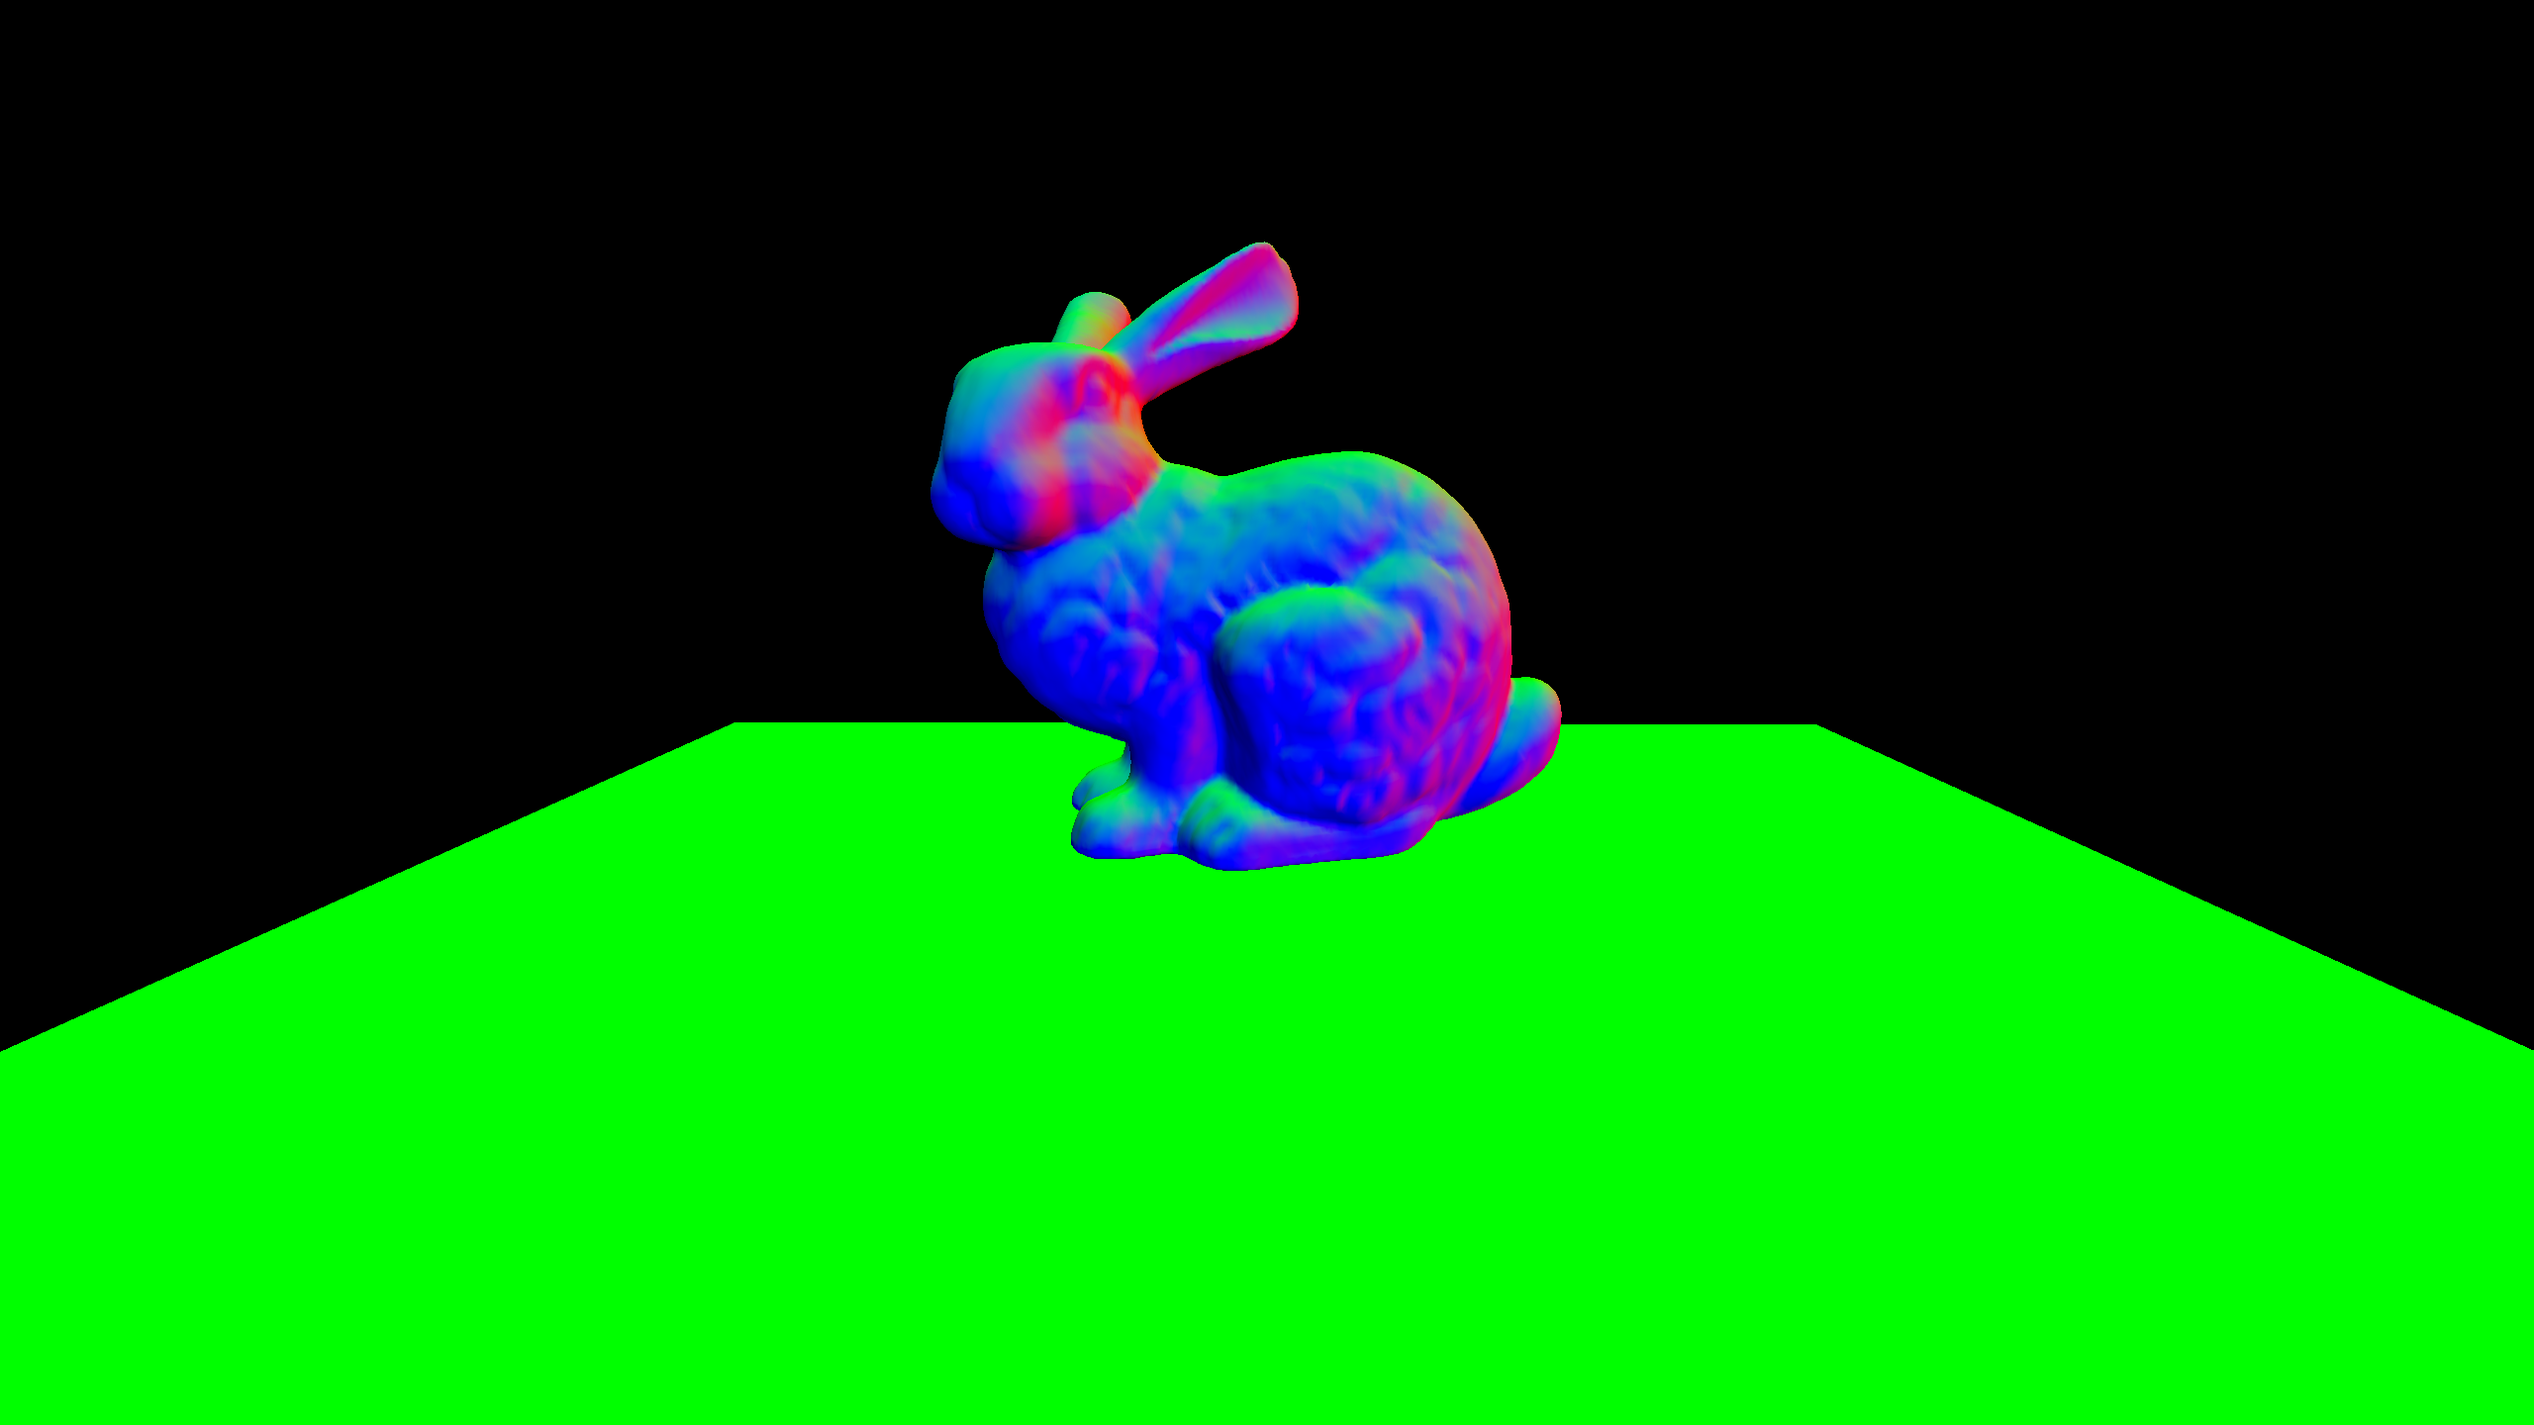
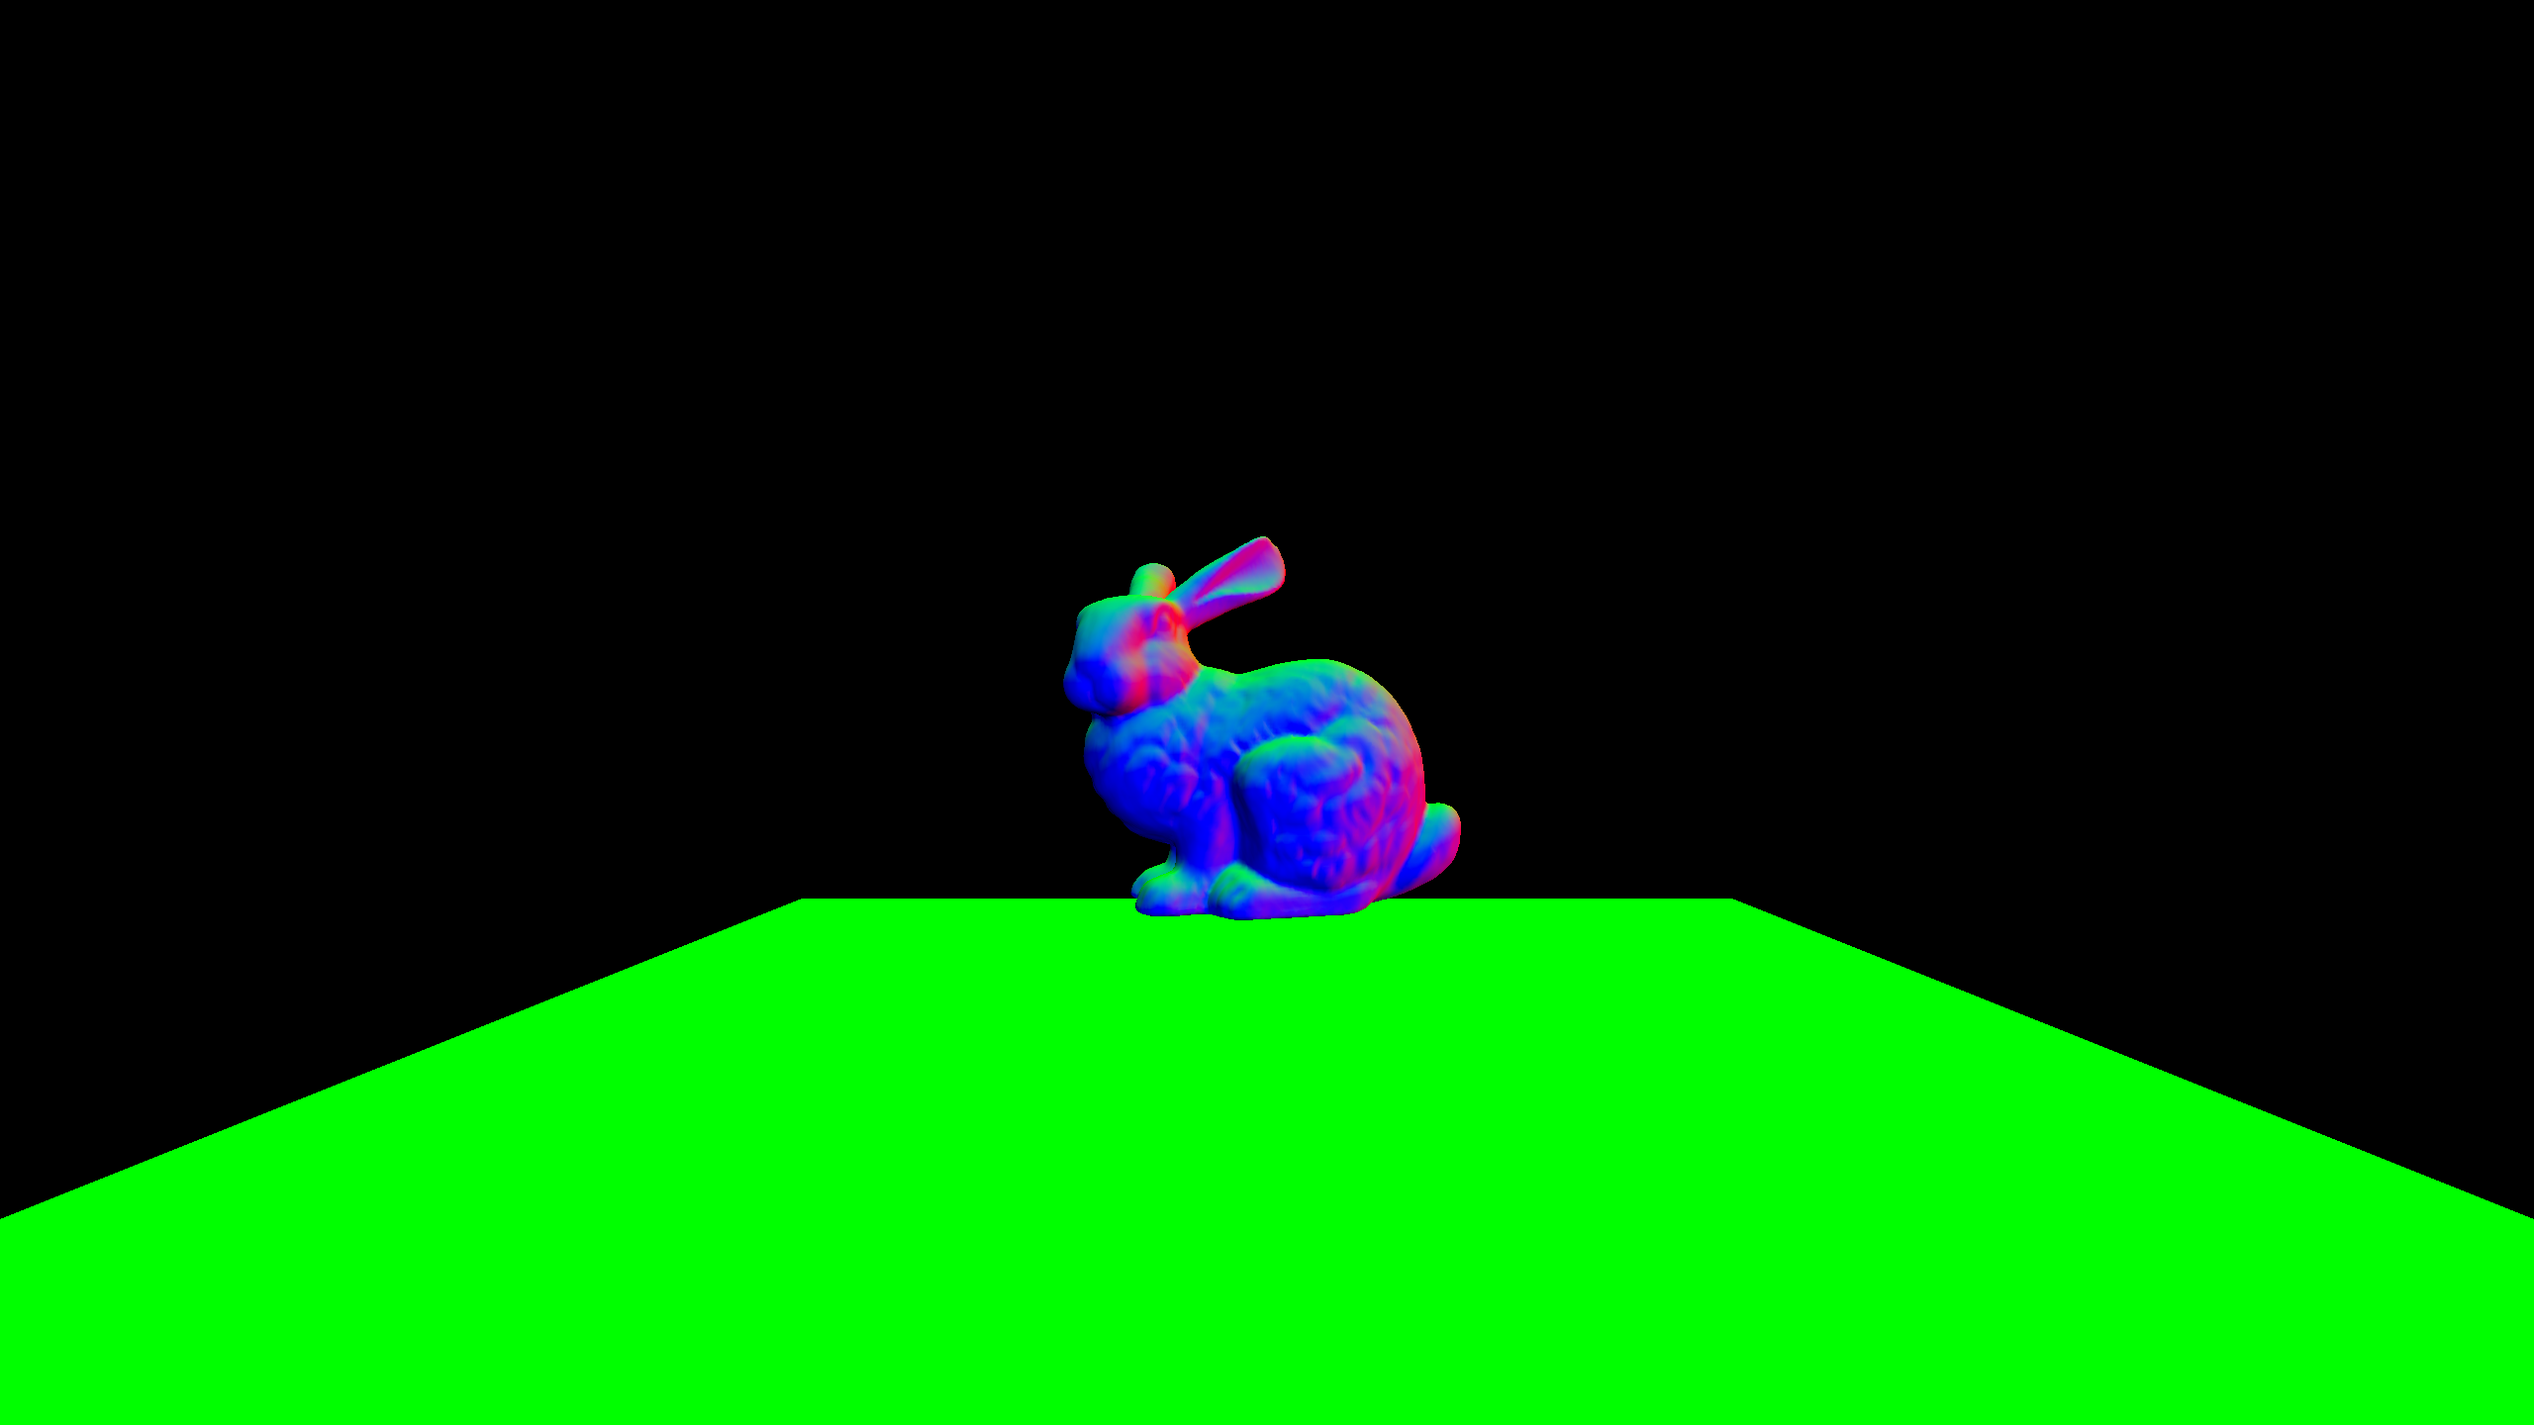
Initial ambient occlusion pass.

Changed region(s): [[0.0, 0.1562, 1.0, 0.875]]

diff --git a/src/scenes/cs562/project4/project4.cpp b/src/scenes/cs562/project4/project4.cpp
@@ -23,8 +23,11 @@ namespace Sandbox {
                                                environmentMap_("environment"),
                                                irradianceMap_("irradiance"),
                                                exposure_(3.0f),
-                                               contrast_(2.0f)
-    {
+                                               contrast_(2.0f),
+                                               ambientOcclusionRadius_(1.0f),
+                                               ambientOcclusionScale_(1.0f),
+                                               ambientOcclusionContrast_(1.0f)
+                                               {
     }
 
     SceneCS562Project4::~SceneCS562Project4() {
@@ -87,6 +90,8 @@ namespace Sandbox {
 
         Backend::Core::DisableFlag(GL_DEPTH_TEST);
 
+        AmbientOcclusionPass();
+
         // 2. Global lighting pass.
         GlobalLightingPass();
 
@@ -99,7 +104,7 @@ namespace Sandbox {
         Backend::Core::EnableFlag(GL_CULL_FACE);
         Backend::Core::CullFace(GL_FRONT);
 
-        LocalLightingPass();
+        // LocalLightingPass();
 
         Backend::Core::DisableFlag(GL_CULL_FACE);
         Backend::Core::DisableFlag(GL_BLEND);
@@ -185,6 +190,19 @@ namespace Sandbox {
                 ImGui::Image(reinterpret_cast<ImTextureID>(fbo_.GetNamedRenderTarget("specular")->ID()), imageSize, ImVec2(0, 1), ImVec2(1, 0));
                 ImGui::Separator();
 
+                ImGui::Text("Ambient Occlusion Radius:");
+                ImGui::SliderFloat("##aoRadius", &ambientOcclusionRadius_, 0.0f, 5.0f);
+
+                ImGui::Text("Ambient Occlusion Scaling Factor:");
+                ImGui::SliderFloat("##aoScale", &ambientOcclusionScale_, 0.0f, 5.0f);
+
+                ImGui::Text("Ambient Occlusion Contrast:");
+                ImGui::SliderFloat("##aoContrast", &ambientOcclusionContrast_, 0.0f, 5.0f);
+
+                ImGui::Text("Ambient Occlusion:");
+                ImGui::Image(reinterpret_cast<ImTextureID>(fbo_.GetNamedRenderTarget("ambient occlusion")->ID()), imageSize, ImVec2(0, 1), ImVec2(1, 0));
+                ImGui::Separator();
+
                 ImGui::Text("Scene depth:");
                 ImGui::Image(reinterpret_cast<ImTextureID>(fbo_.GetNamedRenderTarget("depth")->ID()), imageSize, ImVec2(0, 1), ImVec2(1, 0));
                 ImGui::Separator();
@@ -263,6 +281,8 @@ namespace Sandbox {
         shaderLibrary.CreateShader("Blur Vertical", { "assets/shaders/blur_vertical.comp" });
 
         shaderLibrary.CreateShader("Skydome", { "assets/shaders/skydome.vert", "assets/shaders/skydome.frag" });
+
+        shaderLibrary.CreateShader("Ambient Occlusion Pass", { "assets/shaders/ao.vert", "assets/shaders/ao.frag" });
     }
 
     void SceneCS562Project4::InitializeMaterials() {
@@ -291,7 +311,7 @@ namespace Sandbox {
             });
             ecs.AddComponent<MaterialCollection>(bunny).Configure([this](MaterialCollection& materialCollection) {
                 Material* phong = materialLibrary_.GetMaterialInstance("Phong");
-                phong->GetUniform("ambientCoefficient")->SetData(glm::vec3(0.05f));
+                phong->GetUniform("ambientCoefficient")->SetData(glm::vec3(0.4f));
                 phong->GetUniform("diffuseCoefficient")->SetData(glm::vec3(1.0f));
                 phong->GetUniform("specularCoefficient")->SetData(glm::vec3(1.0f));
                 phong->GetUniform("specularExponent")->SetData(50.0f);
@@ -437,6 +457,13 @@ namespace Sandbox {
         specularTexture->Unbind();
         fbo_.AttachRenderTarget(specularTexture);
 
+        // Ambient occlusion.
+        Texture* ambientOcclusionTexture = new Texture("ambient occlusion");
+        ambientOcclusionTexture->Bind();
+        ambientOcclusionTexture->ReserveData(Texture::AttachmentType::COLOR, contentWidth, contentHeight);
+        ambientOcclusionTexture->Unbind();
+        fbo_.AttachRenderTarget(ambientOcclusionTexture);
+
         // Depth texture (for visualizing depth information).
         Texture* depthTexture = new Texture("depth");
         depthTexture->Bind();
@@ -530,7 +557,7 @@ namespace Sandbox {
     }
 
     void SceneCS562Project4::GeometryPass() {
-        fbo_.DrawBuffers(0, 5);
+        fbo_.DrawBuffers(0, 6);
         Backend::Core::ClearColor(0.0f, 0.0f, 0.0f, 1.0f);
         Backend::Core::ClearFlag(GL_COLOR_BUFFER_BIT | GL_DEPTH_BUFFER_BIT); // Clear everything for a new scene.
 
@@ -567,7 +594,7 @@ namespace Sandbox {
 
         // Render scene depth.
         {
-            fbo_.DrawBuffers(5, 1);
+            fbo_.DrawBuffers(6, 1);
             Backend::Core::ClearColor(0.0f, 0.0f, 0.0f, 1.0f);
             Backend::Core::ClearFlag(GL_COLOR_BUFFER_BIT); // Clear everything for a new scene.
 
@@ -585,7 +612,7 @@ namespace Sandbox {
 
     void SceneCS562Project4::GlobalLightingPass() {
         // Render to 'output' texture.
-        fbo_.DrawBuffers(6, 1);
+        fbo_.DrawBuffers(7, 1);
 
         Backend::Core::ClearColor(0.0f, 0.0f, 0.0f, 1.0f);
         Backend::Core::ClearFlag(GL_COLOR_BUFFER_BIT); // We are not touching depth buffer here.
@@ -614,21 +641,22 @@ namespace Sandbox {
         Backend::Rendering::BindTextureWithSampler(globalLightingShader, fbo_.GetNamedRenderTarget("position"), 0);
         Backend::Rendering::BindTextureWithSampler(globalLightingShader, fbo_.GetNamedRenderTarget("normal"), 1);
         Backend::Rendering::BindTextureWithSampler(globalLightingShader, fbo_.GetNamedRenderTarget("ambient"), 2);
-        Backend::Rendering::BindTextureWithSampler(globalLightingShader, fbo_.GetNamedRenderTarget("diffuse"), 3);
-        Backend::Rendering::BindTextureWithSampler(globalLightingShader, fbo_.GetNamedRenderTarget("specular"), 4);
+        Backend::Rendering::BindTextureWithSampler(globalLightingShader, fbo_.GetNamedRenderTarget("ambient occlusion"), "ambientOcclusion", 3);
+        Backend::Rendering::BindTextureWithSampler(globalLightingShader, fbo_.GetNamedRenderTarget("diffuse"), 4);
+        Backend::Rendering::BindTextureWithSampler(globalLightingShader, fbo_.GetNamedRenderTarget("specular"), 5);
 
         // Bind shadow map.
         shadowMap_.BindForRead();
         if (blurKernelRadius_ > 0) {
             // Vertical blurring pass happens after horizontal blurring pass.
-            Backend::Rendering::BindTextureWithSampler(globalLightingShader, shadowMap_.GetNamedRenderTarget("blur vertical"), "shadowMap", 5);
+            Backend::Rendering::BindTextureWithSampler(globalLightingShader, shadowMap_.GetNamedRenderTarget("blur vertical"), "shadowMap", 6);
         }
         else {
-            Backend::Rendering::BindTextureWithSampler(globalLightingShader, shadowMap_.GetNamedRenderTarget("depth"), "shadowMap", 5);
+            Backend::Rendering::BindTextureWithSampler(globalLightingShader, shadowMap_.GetNamedRenderTarget("depth"), "shadowMap", 6);
         }
 
-        Backend::Rendering::BindTextureWithSampler(globalLightingShader, &environmentMap_, "environmentMap", 6);
-        Backend::Rendering::BindTextureWithSampler(globalLightingShader, &irradianceMap_, "irradianceMap", 7);
+        Backend::Rendering::BindTextureWithSampler(globalLightingShader, &environmentMap_, "environmentMap", 7);
+        Backend::Rendering::BindTextureWithSampler(globalLightingShader, &irradianceMap_, "irradianceMap", 8);
 
         // Render to output texture using FSQ.
         Backend::Rendering::DrawFSQ();
@@ -638,7 +666,7 @@ namespace Sandbox {
 
     void SceneCS562Project4::LocalLightingPass() {
         // Render to 'output' texture.
-        fbo_.DrawBuffers(6, 1);
+        fbo_.DrawBuffers(7, 1);
 
         Shader* localLightingShader = ShaderLibrary::Instance().GetShader("Local Lighting BRDF Pass");
         localLightingShader->Bind();
@@ -949,60 +977,6 @@ namespace Sandbox {
         irradianceMap_.ReserveData(irradianceMapName);
     }
 
-//    SceneCS562Project4::HDRImageData SceneCS562Project4::ReadHDRImage(const std::string& filename) const {
-//        rgbe_header_info info;
-//        char buffer[256] = { '\0' };
-//
-//        HDRImageData out { };
-//        FILE* fp = fopen(filename.c_str(), "rb");
-//        if (!fp) {
-//            throw std::runtime_error("Failed to open '" + filename + "' for read.");
-//        }
-//
-//        // Read header.
-//        if (RGBE_ReadHeader(fp, &out.width, &out.height, &info, buffer) != RGBE_RETURN_SUCCESS) {
-//            fclose(fp);
-//            throw std::runtime_error("Failed to read .hdr (HDR) image header (" + filename + ").");
-//        }
-//
-//        // Read data.
-//        out.channels = 3;
-//        out.data.resize(out.width * out.height * out.channels, 0.0f); // Allocate space for image.
-//
-//        if (RGBE_ReadPixels_RLE(fp, out.data.data(), out.width, out.height, buffer) != RGBE_RETURN_SUCCESS) {
-//            fclose(fp);
-//            throw std::runtime_error("Failed to read .hdr (HDR) image data (" + filename + ").");
-//        }
-//
-//        fclose(fp);
-//        return out;
-//    }
-//
-//    void SceneCS562Project4::WriteHDRImage(HDRImageData data, const std::string& filename) const {
-//        rgbe_header_info info;
-//        char buffer[256] = { '\0' };
-//
-//        // Open file.
-//        FILE* fp = fopen(ConvertToNativeSeparators(filename).c_str(), "wb");
-//        if (!fp) {
-//            throw std::runtime_error("Failed to open '" + filename + "' for write.");
-//        }
-//
-//        // Write header.
-//        if (RGBE_WriteHeader(fp, data.width, data.height, nullptr, buffer) != RGBE_RETURN_SUCCESS) {
-//            fclose(fp);
-//            throw std::runtime_error("Failed to write .hdr (HDR) image header (" + filename + ").");
-//        }
-//
-//        // Write data.
-//        if (RGBE_WritePixels_RLE(fp, data.data.data(), data.width, data.height, buffer) != RGBE_RETURN_SUCCESS) {
-//            fclose(fp);
-//            throw std::runtime_error("Failed to read .hdr (HDR) image data (" + filename + ").");
-//        }
-//
-//        fclose(fp);
-//    }
-
     void SceneCS562Project4::GenerateIrradianceMap(std::string filename) const {
         filename = ConvertToNativeSeparators(filename);
         std::string name = GetAssetName(filename);
@@ -1171,7 +1145,7 @@ namespace Sandbox {
     }
 
     void SceneCS562Project4::RenderSkydome() {
-        fbo_.DrawBuffers(6, 1);
+        fbo_.DrawBuffers(7, 1);
 
         // Render four channel depth buffer.
         Shader* skydomeShader = ShaderLibrary::Instance().GetShader("Skydome");
@@ -1195,6 +1169,30 @@ namespace Sandbox {
         });
 
         skydomeShader->Unbind();
+    }
+
+    void SceneCS562Project4::AmbientOcclusionPass() {
+        fbo_.DrawBuffers(5, 1);
+        Backend::Core::ClearFlag(GL_COLOR_BUFFER_BIT);
+
+        // Render four channel depth buffer.
+        Shader* aoShader = ShaderLibrary::Instance().GetShader("Ambient Occlusion Pass");
+        aoShader->Bind();
+
+        aoShader->SetUniform("resolution", glm::vec2(fbo_.GetWidth(), fbo_.GetHeight()));
+        aoShader->SetUniform("aoRadius", ambientOcclusionRadius_);
+        aoShader->SetUniform("aoScale", ambientOcclusionScale_);
+        aoShader->SetUniform("aoContrast", ambientOcclusionContrast_);
+        aoShader->SetUniform("cameraTransform", camera_.GetCameraTransform());
+
+        // Bind geometry pass textures.
+        Backend::Rendering::BindTextureWithSampler(aoShader, fbo_.GetNamedRenderTarget("position"), 0);
+        Backend::Rendering::BindTextureWithSampler(aoShader, fbo_.GetNamedRenderTarget("normal"), 1);
+        // Backend::Rendering::BindTextureWithSampler(aoShader, fbo_.GetNamedRenderTarget("depth buffer"), 2);
+
+        Backend::Rendering::DrawFSQ();
+
+        aoShader->Unbind();
     }
 
 }

diff --git a/include/scenes/cs562/project4/project4.h b/include/scenes/cs562/project4/project4.h
@@ -60,16 +60,10 @@ namespace Sandbox {
 
             void GenerateRandomPoints();
 
-//            struct HDRImageData {
-//                int width;
-//                int height;
-//                int channels;
-//                std::vector<float> data;
-//            };
-//            [[nodiscard]] HDRImageData ReadHDRImage(const std::string& filename) const;
-//            void WriteHDRImage(HDRImageData data, const std::string& filename) const;
             void GenerateIrradianceMap(std::string filename) const;
             void RenderSkydome();
+
+            void AmbientOcclusionPass();
 
             Bounds bounds_;
 
@@ -89,6 +83,10 @@ namespace Sandbox {
             Texture irradianceMap_;
             float exposure_;
             float contrast_;
+
+            float ambientOcclusionRadius_;
+            float ambientOcclusionScale_;
+            float ambientOcclusionContrast_;
     };
 
 }
